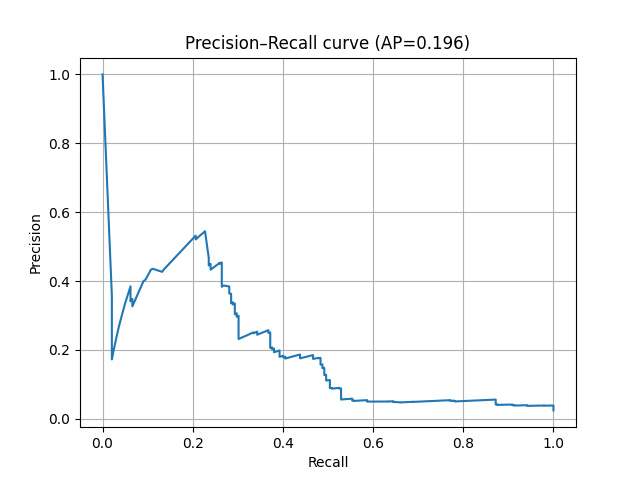
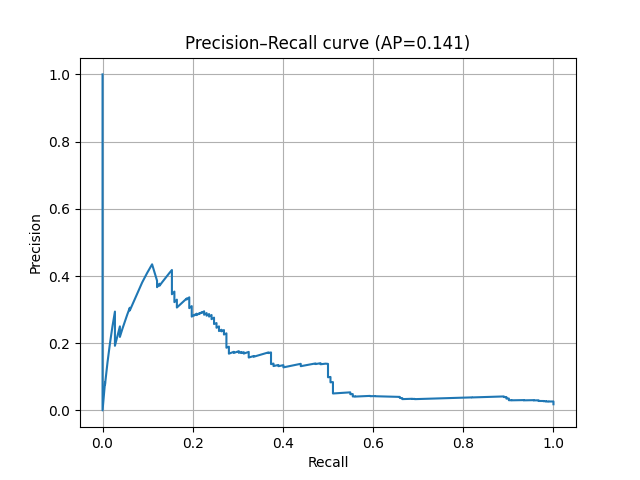
args renaming

diff --git a/src/evaluate.py b/src/evaluate.py
@@ -128,8 +128,8 @@ if __name__ == "__main__":
                         help="Test dataset CSV (features + label).")
     parser.add_argument("--model", type=str, default="../models/model.pkl",
                         help="Path to trained model.")
-    parser.add_argument("--experiment", action="store_true",
-                        help="Run threshold sweep experiment")
+    parser.add_argument("--threshold_sweep", action="store_true",
+                        help="Run threshold sweep")
     parser.add_argument("--threshold", type=float, default=0.5,
                         help="Single threshold for evaluation")
     parser.add_argument("--thresholds", type=float, nargs=3,
@@ -153,7 +153,7 @@ if __name__ == "__main__":
     os.makedirs(args.save_dir, exist_ok=True)
 
     # Evaluate either single threshold or sweep thresholds
-    if args.experiment:
+    if args.threshold_sweep:
         if args.thresholds:
             thresholds = np.linspace(*args.thresholds)
         else: